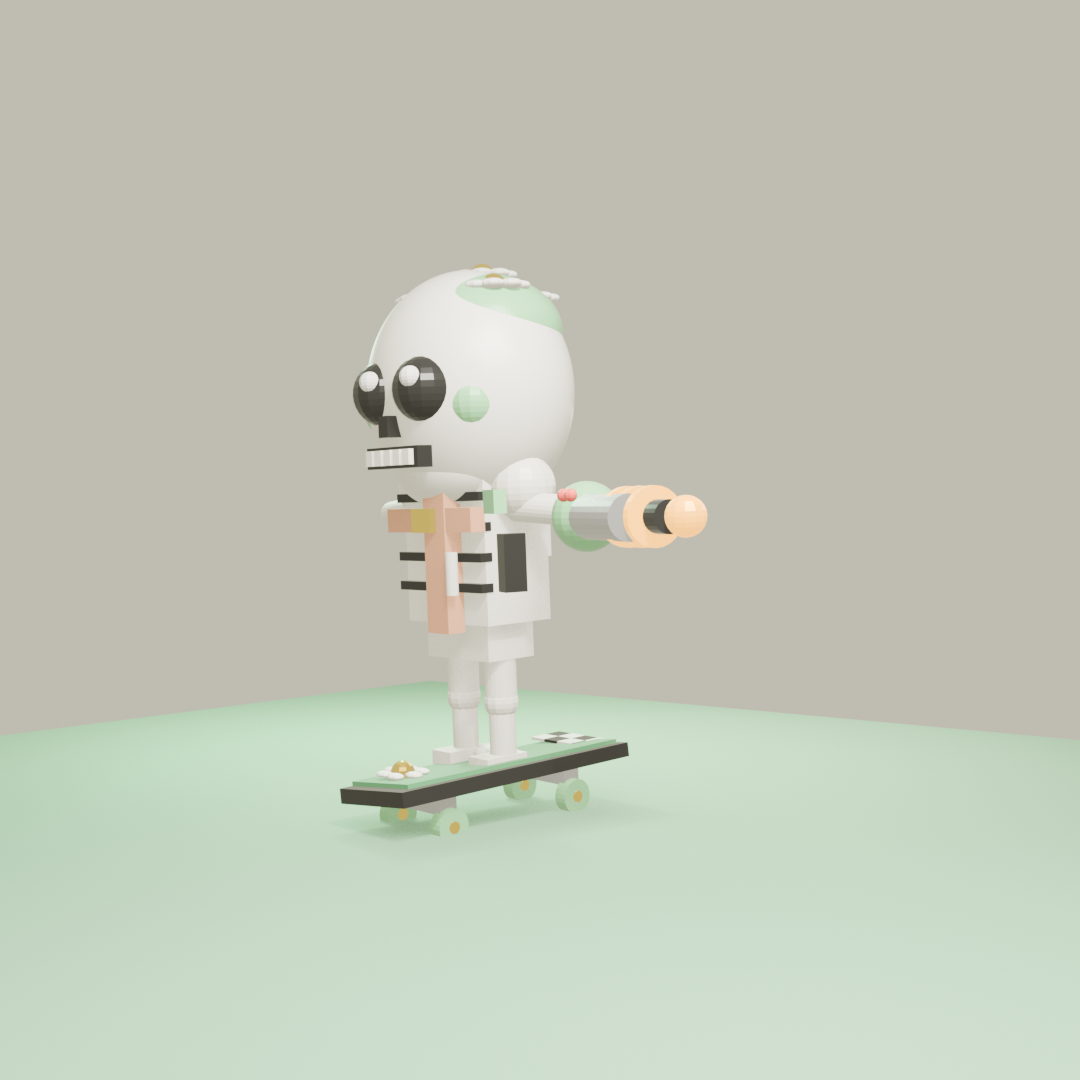
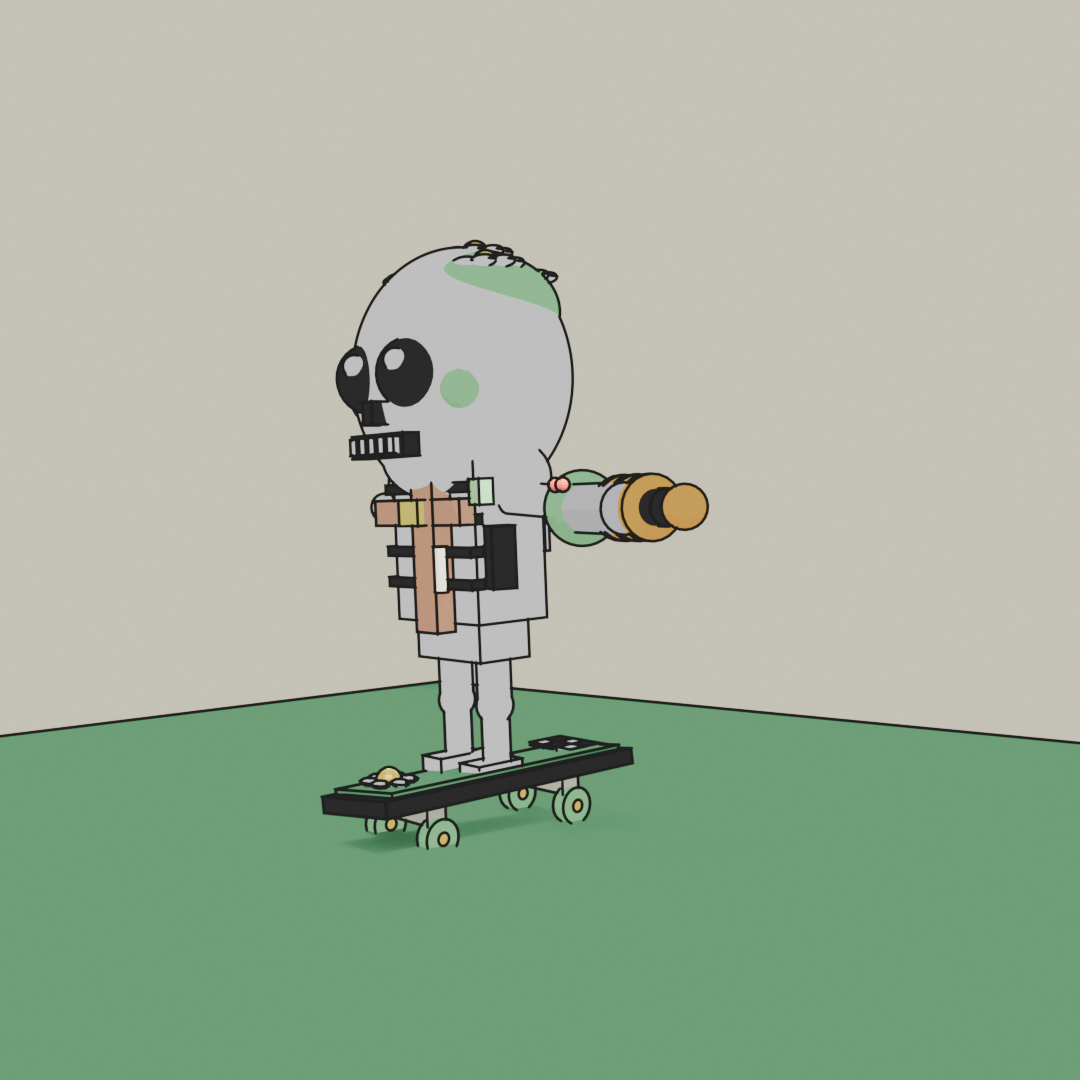
Level up graphics without paid APIs
Cel-shaded toon materials + Freestyle ink outlines in Blender, louder brand hero render, and a thicker inked in-game Skull Pepe sprite with daisy crown and checkered board.

diff --git a/src/game/Player.ts b/src/game/Player.ts
@@ -145,91 +145,184 @@ export class Player {
     const bob = this.onGround ? Math.sin(this.animFrame * 0.15) * 2 : 0
     const px = screenX
     const py = screenY - this.z - 24 - bob
+    const dir = this.facing > 0 ? 1 : -1
 
     if (this.invincible > 0 && Math.floor(this.animFrame / 4) % 2 === 0) return
 
     ctx.save()
+    ctx.lineJoin = 'round'
+    ctx.lineCap = 'round'
+
+    // ink stroke helper
+    const ink = (fn: () => void) => {
+      ctx.save()
+      ctx.strokeStyle = palette.black
+      ctx.lineWidth = 3
+      fn()
+      ctx.stroke()
+      ctx.restore()
+    }
 
     // shadow
-    ctx.fillStyle = 'rgba(0,0,0,0.25)'
+    ctx.fillStyle = 'rgba(0,0,0,0.3)'
     ctx.beginPath()
-    ctx.ellipse(px, screenY - 6, 16, 8, 0, 0, Math.PI * 2)
+    ctx.ellipse(px, screenY - 4, 20, 9, 0, 0, Math.PI * 2)
     ctx.fill()
 
-    // skateboard (isometric cube-ish)
+    // skateboard with checkered nose
     ctx.fillStyle = palette.black
     ctx.beginPath()
-    ctx.moveTo(px - 16, py + 32)
-    ctx.lineTo(px + 16, py + 24)
-    ctx.lineTo(px + 16, py + 30)
-    ctx.lineTo(px - 16, py + 38)
+    ctx.moveTo(px - 20, py + 34)
+    ctx.lineTo(px + 20, py + 24)
+    ctx.lineTo(px + 20, py + 32)
+    ctx.lineTo(px - 20, py + 42)
     ctx.closePath()
     ctx.fill()
-    // wheels
+    ink(() => {
+      ctx.beginPath()
+      ctx.moveTo(px - 20, py + 34)
+      ctx.lineTo(px + 20, py + 24)
+      ctx.lineTo(px + 20, py + 32)
+      ctx.lineTo(px - 20, py + 42)
+      ctx.closePath()
+    })
+    // green deck top
     ctx.fillStyle = palette.darkGreen
     ctx.beginPath()
-    ctx.arc(px - 12, py + 36, 4, 0, Math.PI * 2)
-    ctx.arc(px + 12, py + 28, 4, 0, Math.PI * 2)
+    ctx.moveTo(px - 18, py + 34)
+    ctx.lineTo(px + 18, py + 25)
+    ctx.lineTo(px + 18, py + 29)
+    ctx.lineTo(px - 18, py + 38)
+    ctx.closePath()
     ctx.fill()
+    // checker tip
+    for (let i = 0; i < 4; i++) {
+      ctx.fillStyle = i % 2 === 0 ? palette.white : palette.black
+      ctx.fillRect(px + 8 + i * 3, py + 26, 3, 3)
+    }
+    // wheels
+    ctx.fillStyle = palette.lightGreen
+    ctx.beginPath()
+    ctx.arc(px - 14, py + 40, 5, 0, Math.PI * 2)
+    ctx.arc(px + 14, py + 30, 5, 0, Math.PI * 2)
+    ctx.fill()
+    ink(() => {
+      ctx.beginPath()
+      ctx.arc(px - 14, py + 40, 5, 0, Math.PI * 2)
+      ctx.arc(px + 14, py + 30, 5, 0, Math.PI * 2)
+    })
 
     // legs
-    ctx.fillStyle = palette.white
-    ctx.fillRect(px - 10, py + 12, 6, 18)
-    ctx.fillRect(px + 2, py + 12, 6, 18)
-
-    // body
-    ctx.fillStyle = palette.white
-    ctx.fillRect(px - 12, py - 14, 24, 30)
-    // brown strap
-    ctx.fillStyle = palette.brown
-    ctx.fillRect(px - 4, py - 14, 8, 30)
-    ctx.fillRect(px - 12, py - 4, 24, 6)
-    // delivery bag on back
-    ctx.fillStyle = palette.brown
-    ctx.fillRect(this.facing > 0 ? px - 22 : px + 14, py - 10, 14, 18)
     ctx.fillStyle = palette.cream
-    ctx.fillRect(this.facing > 0 ? px - 20 : px + 16, py - 6, 10, 10)
+    ctx.fillRect(px - 12, py + 10, 8, 22)
+    ctx.fillRect(px + 4, py + 10, 8, 22)
+    ink(() => {
+      ctx.strokeRect(px - 12, py + 10, 8, 22)
+      ctx.strokeRect(px + 4, py + 10, 8, 22)
+    })
 
-    // green glove + ray gun
-    ctx.fillStyle = palette.lightGreen
-    const gunArmX = this.facing > 0 ? px + 14 : px - 20
-    ctx.fillRect(gunArmX, py - 6, 16, 12)
-    ctx.fillStyle = palette.grey
-    ctx.fillRect(gunArmX + (this.facing > 0 ? 8 : -20), py - 10, 24, 8)
-    ctx.fillStyle = palette.orange
-    ctx.fillRect(gunArmX + (this.facing > 0 ? 28 : -8), py - 12, 6, 12)
-
-    // head/skull
-    ctx.fillStyle = palette.white
-    ctx.beginPath()
-    ctx.arc(px, py - 32, 14, 0, Math.PI * 2)
-    ctx.fill()
-    // green brain
-    ctx.fillStyle = palette.lightGreen
-    ctx.beginPath()
-    ctx.arc(px, py - 42, 7, 0, Math.PI * 2)
-    ctx.fill()
-    // eyes
+    // torso + ribs
+    ctx.fillStyle = palette.cream
+    ctx.fillRect(px - 14, py - 18, 28, 34)
+    ink(() => ctx.strokeRect(px - 14, py - 18, 28, 34))
     ctx.fillStyle = palette.black
-    ctx.beginPath()
-    ctx.arc(px - 5, py - 32, 3, 0, Math.PI * 2)
-    ctx.arc(px + 5, py - 32, 3, 0, Math.PI * 2)
-    ctx.fill()
-    // grin
-    ctx.fillStyle = palette.black
-    ctx.fillRect(px - 8, py - 24, 16, 4)
+    for (let i = 0; i < 4; i++) {
+      ctx.fillRect(px - 12, py - 10 + i * 7, 24, 3)
+    }
+    // brown harness
+    ctx.fillStyle = palette.brown
+    ctx.fillRect(px - 5, py - 18, 10, 34)
+    ctx.fillRect(px - 14, py - 2, 28, 8)
+    ink(() => {
+      ctx.strokeRect(px - 5, py - 18, 10, 34)
+      ctx.strokeRect(px - 14, py - 2, 28, 8)
+    })
+    // gold buckle
+    ctx.fillStyle = palette.gold
+    ctx.fillRect(px - 4, py - 1, 8, 6)
 
-    // daisy crown
-    ctx.fillStyle = palette.white
-    for (let i = -10; i <= 10; i += 5) {
+    // delivery bag
+    const bagX = dir > 0 ? px - 26 : px + 14
+    ctx.fillStyle = palette.brown
+    ctx.fillRect(bagX, py - 12, 16, 22)
+    ink(() => ctx.strokeRect(bagX, py - 12, 16, 22))
+    ctx.fillStyle = palette.cream
+    ctx.fillRect(bagX + 2, py - 8, 12, 12)
+    ctx.fillStyle = palette.black
+    ctx.fillRect(bagX + 3, py - 4, 10, 2)
+
+    // green glove + chunky ray gun
+    const gunX = dir > 0 ? px + 16 : px - 40
+    ctx.fillStyle = palette.lightGreen
+    ctx.beginPath()
+    ctx.arc(dir > 0 ? px + 18 : px - 18, py - 2, 8, 0, Math.PI * 2)
+    ctx.fill()
+    ink(() => {
       ctx.beginPath()
-      ctx.arc(px + i, py - 46, 3, 0, Math.PI * 2)
+      ctx.arc(dir > 0 ? px + 18 : px - 18, py - 2, 8, 0, Math.PI * 2)
+    })
+    ctx.fillStyle = palette.grey
+    ctx.fillRect(gunX, py - 10, 28, 10)
+    ink(() => ctx.strokeRect(gunX, py - 10, 28, 10))
+    ctx.fillStyle = palette.orange
+    ctx.fillRect(gunX + (dir > 0 ? 20 : 0), py - 13, 5, 16)
+    ctx.fillRect(gunX + (dir > 0 ? 26 : -2), py - 13, 5, 16)
+    ctx.fillStyle = palette.black
+    ctx.fillRect(gunX + (dir > 0 ? 30 : -6), py - 12, 8, 14)
+
+    // BIG skull head
+    ctx.fillStyle = palette.cream
+    ctx.beginPath()
+    ctx.arc(px, py - 36, 18, 0, Math.PI * 2)
+    ctx.fill()
+    ink(() => {
+      ctx.beginPath()
+      ctx.arc(px, py - 36, 18, 0, Math.PI * 2)
+    })
+    // pepe green scalp + cheeks
+    ctx.fillStyle = palette.lightGreen
+    ctx.beginPath()
+    ctx.ellipse(px, py - 48, 14, 9, 0, 0, Math.PI * 2)
+    ctx.fill()
+    ctx.beginPath()
+    ctx.arc(px - 12, py - 34, 5, 0, Math.PI * 2)
+    ctx.arc(px + 12, py - 34, 5, 0, Math.PI * 2)
+    ctx.fill()
+    // huge eyes + shine
+    ctx.fillStyle = palette.black
+    ctx.beginPath()
+    ctx.arc(px - 7, py - 36, 5, 0, Math.PI * 2)
+    ctx.arc(px + 7, py - 36, 5, 0, Math.PI * 2)
+    ctx.fill()
+    ctx.fillStyle = palette.white
+    ctx.beginPath()
+    ctx.arc(px - 5, py - 38, 2, 0, Math.PI * 2)
+    ctx.arc(px + 9, py - 38, 2, 0, Math.PI * 2)
+    ctx.fill()
+    // wide grin + teeth
+    ctx.fillStyle = palette.black
+    ctx.fillRect(px - 11, py - 26, 22, 7)
+    ctx.fillStyle = palette.cream
+    for (let i = -8; i <= 8; i += 4) {
+      ctx.fillRect(px + i - 1, py - 25, 2, 5)
+    }
+
+    // daisy crown (proper flowers)
+    for (let i = -14; i <= 14; i += 7) {
+      const cx = px + i
+      const cy = py - 56
+      ctx.fillStyle = palette.cream
+      for (let a = 0; a < 6; a++) {
+        const ang = (a / 6) * Math.PI * 2
+        ctx.beginPath()
+        ctx.arc(cx + Math.cos(ang) * 4, cy + Math.sin(ang) * 3, 3, 0, Math.PI * 2)
+        ctx.fill()
+      }
+      ctx.fillStyle = palette.gold
+      ctx.beginPath()
+      ctx.arc(cx, cy, 2.5, 0, Math.PI * 2)
       ctx.fill()
     }
-    ctx.fillStyle = palette.gold
-    ctx.beginPath()
-    ctx.arc(px, py - 46, 2, 0, Math.PI * 2)
-    ctx.fill()
 
     ctx.restore()
   }